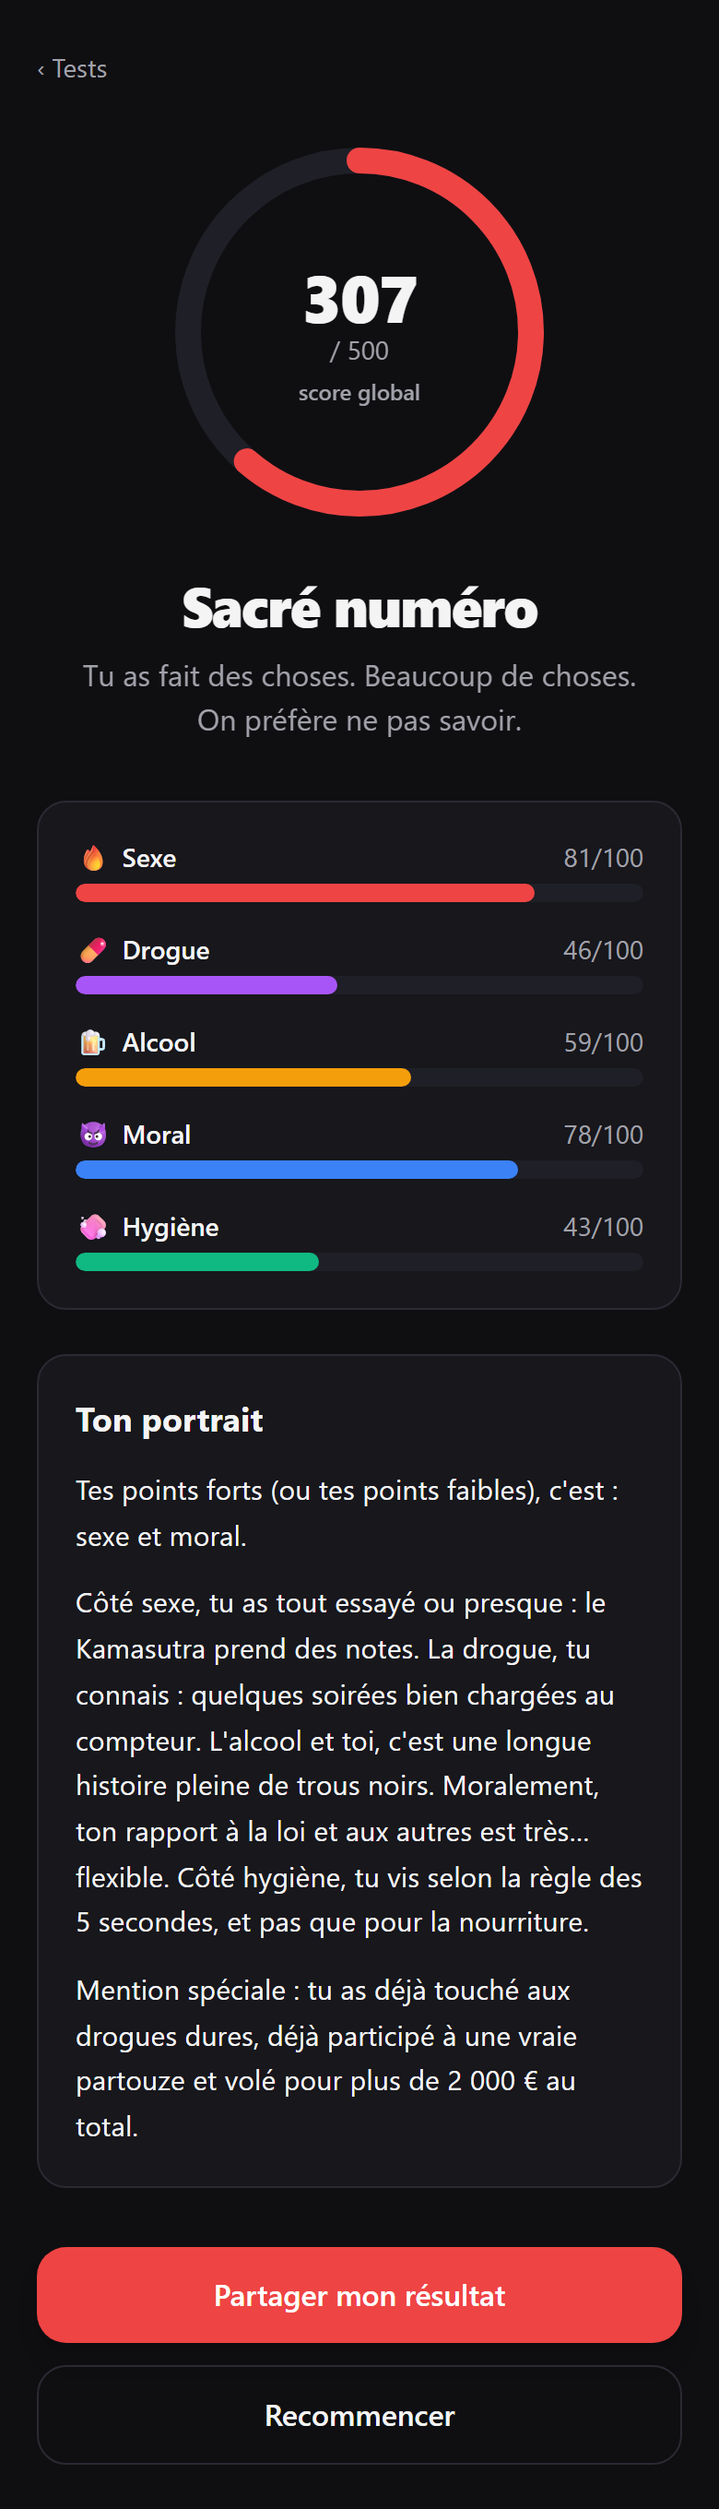
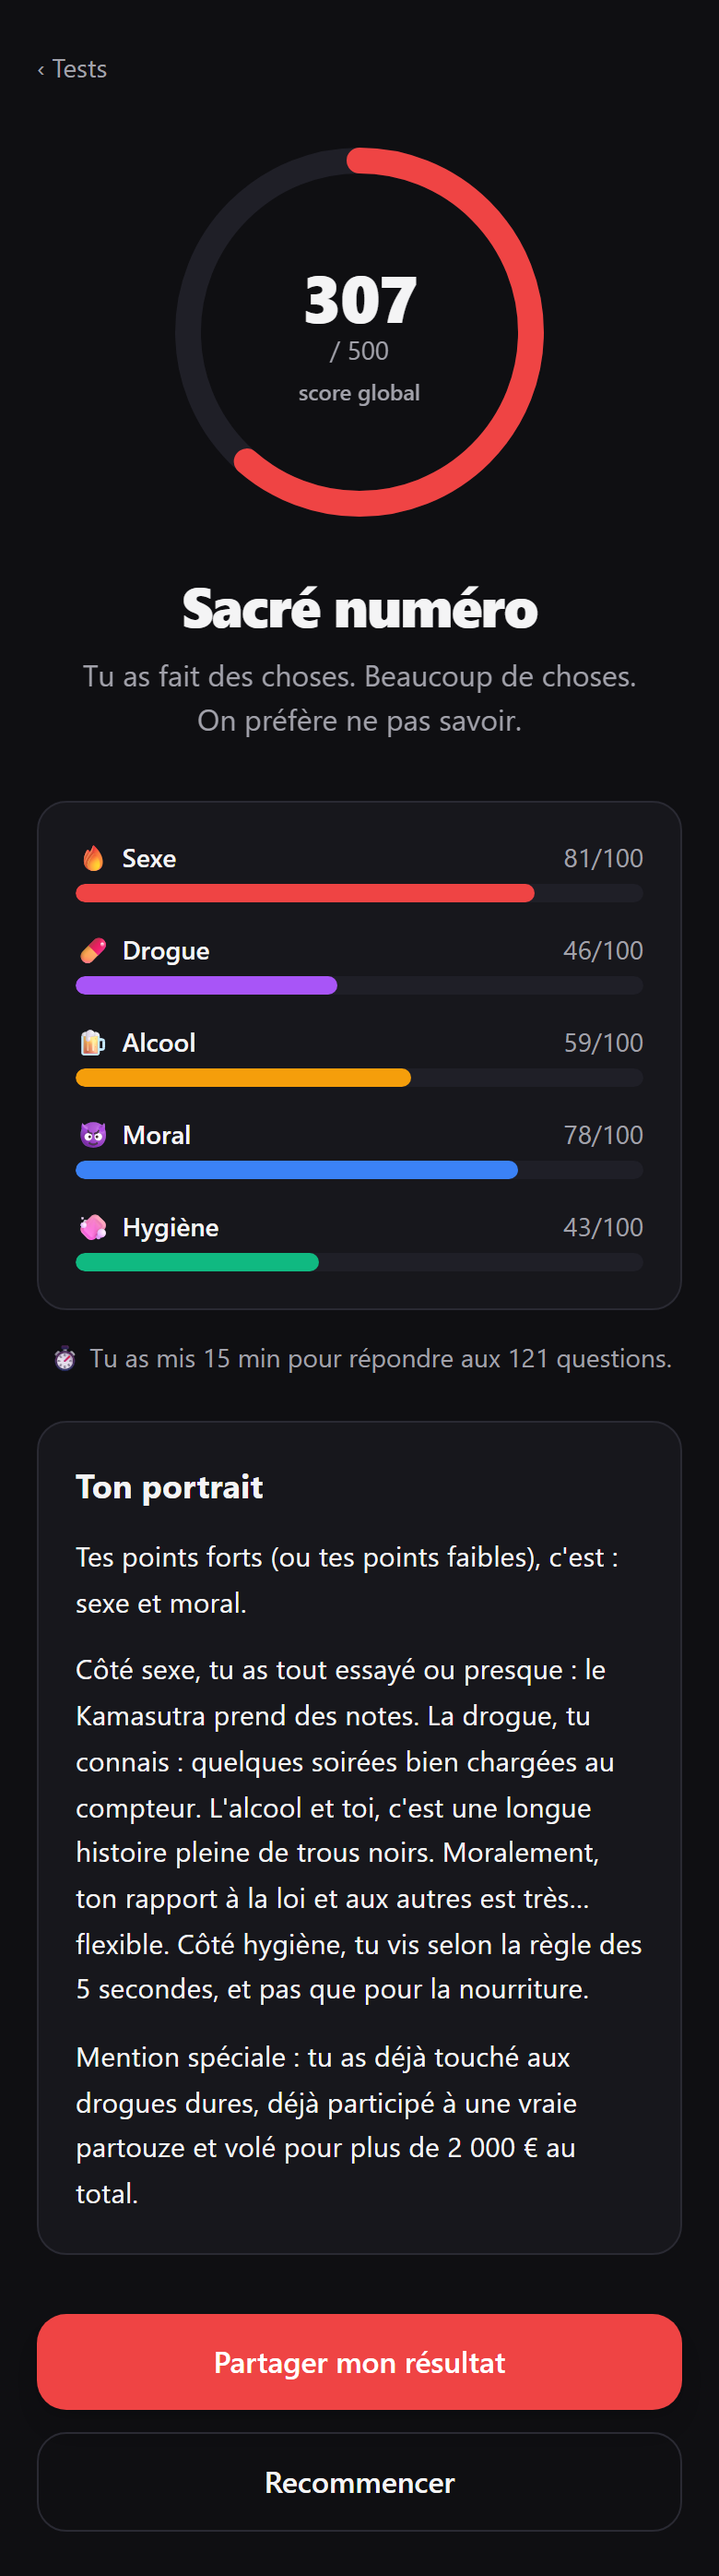
feat: show answering time on the global result
Active time is accumulated per category between actions (gaps capped at
2 minutes so pauses don't count) and stored with the answers.

diff --git a/src/state/QuizContext.tsx b/src/state/QuizContext.tsx
@@ -9,10 +9,15 @@ import {
   type ReactNode,
 } from "react";
 import type { AnswersByCategory, CategoryId } from "../data/types";
-import { loadState, saveState, resetState } from "../lib/storage";
+import { loadState, saveState, resetState, type ElapsedByCategory } from "../lib/storage";
+import { activeGap } from "../lib/timing";
 
 interface QuizContextValue {
   answers: AnswersByCategory;
+  /** active answering time per category, in milliseconds */
+  elapsedMs: ElapsedByCategory;
+  /** marks "the player is here now" (e.g. a quiz screen opened) without counting time */
+  markActivity: () => void;
   setAnswer: (category: CategoryId, questionId: string, answerIndex: number) => void;
   resetCategory: (category: CategoryId) => void;
   resetAll: () => void;
@@ -21,7 +26,11 @@ interface QuizContextValue {
 const QuizContext = createContext<QuizContextValue | null>(null);
 
 export function QuizProvider({ children }: { children: ReactNode }) {
-  const [answers, setAnswers] = useState<AnswersByCategory>(() => loadState().answers);
+  const [initialState] = useState(loadState);
+  const [answers, setAnswers] = useState<AnswersByCategory>(initialState.answers);
+  const [elapsedMs, setElapsedMs] = useState<ElapsedByCategory>(initialState.elapsedMs);
+  // Time of the last player action, kept in memory only: a reload starts fresh.
+  const lastActivity = useRef<number | null>(null);
 
   // Persist on every change (skip the very first render).
   const firstRender = useRef(true);
@@ -30,11 +39,19 @@ export function QuizProvider({ children }: { children: ReactNode }) {
       firstRender.current = false;
       return;
     }
-    saveState({ answers });
-  }, [answers]);
+    saveState({ answers, elapsedMs });
+  }, [answers, elapsedMs]);
+
+  const markActivity = useCallback(() => {
+    lastActivity.current = Date.now();
+  }, []);
 
   const setAnswer = useCallback(
     (category: CategoryId, questionId: string, answerIndex: number) => {
+      const now = Date.now();
+      const gap = activeGap(lastActivity.current, now);
+      lastActivity.current = now;
+      setElapsedMs((prev) => ({ ...prev, [category]: (prev[category] ?? 0) + gap }));
       setAnswers((prev) => ({
         ...prev,
         [category]: { ...(prev[category] ?? {}), [questionId]: answerIndex },
@@ -49,16 +66,22 @@ export function QuizProvider({ children }: { children: ReactNode }) {
       delete next[category];
       return next;
     });
+    setElapsedMs((prev) => {
+      const next = { ...prev };
+      delete next[category];
+      return next;
+    });
   }, []);
 
   const resetAll = useCallback(() => {
     resetState();
     setAnswers({});
+    setElapsedMs({});
   }, []);
 
   const value = useMemo<QuizContextValue>(
-    () => ({ answers, setAnswer, resetCategory, resetAll }),
-    [answers, setAnswer, resetCategory, resetAll],
+    () => ({ answers, elapsedMs, markActivity, setAnswer, resetCategory, resetAll }),
+    [answers, elapsedMs, markActivity, setAnswer, resetCategory, resetAll],
   );
 
   return <QuizContext.Provider value={value}>{children}</QuizContext.Provider>;

diff --git a/src/lib/storage.ts b/src/lib/storage.ts
@@ -1,9 +1,27 @@
-import type { AnswersByCategory } from "../data/types";
+import type { AnswersByCategory, CategoryId } from "../data/types";
 
 const KEY = "purity-test:v1";
 
+/** active answering time per category, in milliseconds */
+export type ElapsedByCategory = Partial<Record<CategoryId, number>>;
+
 export interface StoredState {
   answers: AnswersByCategory;
+  elapsedMs: ElapsedByCategory;
+}
+
+const EMPTY_STATE: StoredState = { answers: {}, elapsedMs: {} };
+
+/** Keeps only finite, non-negative durations (older saves have none). */
+function readElapsed(value: unknown): ElapsedByCategory {
+  if (!isPlainObject(value)) return {};
+  const elapsed: ElapsedByCategory = {};
+  for (const [id, ms] of Object.entries(value)) {
+    if (typeof ms === "number" && Number.isFinite(ms) && ms >= 0) {
+      elapsed[id as CategoryId] = ms;
+    }
+  }
+  return elapsed;
 }
 
 function isPlainObject(value: unknown): value is Record<string, unknown> {
@@ -14,14 +32,17 @@ function isPlainObject(value: unknown): value is Record<string, unknown> {
 export function loadState(): StoredState {
   try {
     const raw = localStorage.getItem(KEY);
-    if (!raw) return { answers: {} };
+    if (!raw) return EMPTY_STATE;
     const parsed: unknown = JSON.parse(raw);
     if (!isPlainObject(parsed) || !isPlainObject(parsed.answers)) {
-      return { answers: {} };
+      return EMPTY_STATE;
     }
-    return { answers: parsed.answers as AnswersByCategory };
+    return {
+      answers: parsed.answers as AnswersByCategory,
+      elapsedMs: readElapsed(parsed.elapsedMs),
+    };
   } catch {
-    return { answers: {} };
+    return EMPTY_STATE;
   }
 }
 

diff --git a/src/screens/GlobalResult.tsx b/src/screens/GlobalResult.tsx
@@ -10,9 +10,10 @@ import { ScoreRing } from "../components/ScoreRing";
 import { CategoryBar } from "../components/CategoryBar";
 import { SharePanel } from "../components/SharePanel";
 import { buildPortrait } from "../lib/portrait";
+import { formatDuration } from "../lib/timing";
 
 export function GlobalResult() {
-  const { answers, resetAll } = useQuiz();
+  const { answers, elapsedMs, resetAll } = useQuiz();
   const result = scoreAll(answers);
   const [sharing, setSharing] = useState(false);
 
@@ -25,6 +26,8 @@ export function GlobalResult() {
   const shareUrl = `${window.location.origin}${window.location.pathname}#/partage?d=${encodeResult(
     scoreById as ScoreMap,
   )}`;
+  const totalElapsedMs = Object.values(elapsedMs).reduce((sum, ms) => sum + (ms ?? 0), 0);
+  const answeredCount = result.perCategory.reduce((sum, r) => sum + r.answered, 0);
   const portrait = buildPortrait(scoreById as ScoreMap, answers);
   const shareText = `Mon Purity Test : ${result.total}/${result.maxTotal} — ${result.profile?.title}. Et toi ?`;
 
@@ -69,6 +72,12 @@ export function GlobalResult() {
           />
         ))}
       </div>
+
+      {totalElapsedMs > 0 && (
+        <p className="mt-4 text-center text-sm text-[var(--color-muted)]">
+          ⏱ Tu as mis {formatDuration(totalElapsedMs)} pour répondre aux {answeredCount} questions.
+        </p>
+      )}
 
       <section className="mt-6 space-y-3 rounded-2xl border border-[var(--color-line)] bg-[var(--color-surface)] p-5 text-[0.95rem] leading-relaxed">
         <h2 className="text-lg font-bold">Ton portrait</h2>

diff --git a/src/lib/timing.ts b/src/lib/timing.ts
@@ -1,0 +1,21 @@
+/**
+ * Longest gap counted between two actions: beyond that the player probably
+ * put the phone down, so a pause doesn't inflate the answering time.
+ */
+export const MAX_GAP_MS = 2 * 60 * 1000;
+
+/** Active time to add for an action happening at `now`, given the previous one. */
+export function activeGap(lastActivity: number | null, now: number): number {
+  if (lastActivity == null) return 0;
+  return Math.max(0, Math.min(now - lastActivity, MAX_GAP_MS));
+}
+
+/** Human-readable French duration ("moins d'une minute", "12 min", "1 h 05"). */
+export function formatDuration(ms: number): string {
+  const minutes = Math.round(ms / 60000);
+  if (minutes < 1) return "moins d'une minute";
+  if (minutes < 60) return `${minutes} min`;
+  const hours = Math.floor(minutes / 60);
+  const rest = minutes % 60;
+  return `${hours} h ${String(rest).padStart(2, "0")}`;
+}

diff --git a/src/lib/timing.test.ts b/src/lib/timing.test.ts
@@ -1,0 +1,23 @@
+import { describe, it, expect } from "vitest";
+import { MAX_GAP_MS, activeGap, formatDuration } from "./timing";
+
+describe("activeGap", () => {
+  it("counts nothing before the first action", () => {
+    expect(activeGap(null, 5000)).toBe(0);
+  });
+
+  it("counts the time since the previous action, capped for pauses", () => {
+    expect(activeGap(1000, 9000)).toBe(8000);
+    expect(activeGap(0, 60 * 60 * 1000)).toBe(MAX_GAP_MS);
+    expect(activeGap(9000, 1000)).toBe(0);
+  });
+});
+
+describe("formatDuration", () => {
+  it("formats minutes and hours", () => {
+    expect(formatDuration(20_000)).toBe("moins d'une minute");
+    expect(formatDuration(60_000)).toBe("1 min");
+    expect(formatDuration(12 * 60_000 + 20_000)).toBe("12 min");
+    expect(formatDuration(65 * 60_000)).toBe("1 h 05");
+  });
+});

diff --git a/src/screens/Quiz.tsx b/src/screens/Quiz.tsx
@@ -1,4 +1,4 @@
-import { useState } from "react";
+import { useEffect, useState } from "react";
 import { Navigate, useNavigate, useParams, Link } from "react-router-dom";
 import { useQuiz } from "../state/QuizContext";
 import { getCategory } from "../data/categories";
@@ -15,7 +15,12 @@ export function Quiz() {
   const { categoryId } = useParams();
   const category = getCategory(categoryId);
   const navigate = useNavigate();
-  const { answers, setAnswer } = useQuiz();
+  const { answers, setAnswer, markActivity } = useQuiz();
+
+  // Answering time starts counting when the quiz screen opens.
+  useEffect(() => {
+    markActivity();
+  }, [categoryId, markActivity]);
 
   // Contradictory answers (see `answerLimits`) count as unanswered.
   const catAnswers = category ? sanitizeAnswers(category, answers[category.id]) : {};

diff --git a/SUIVI.md b/SUIVI.md
@@ -5,8 +5,8 @@
 (repo public `Floran-grmxx/purity-test`, déploiement auto à chaque push sur `main`).
 **Nouveau (pushé le 2026-11-22)** : réponses contradictoires masquées (`answerLimits`),
 comptages chiffrés, questions de fréquence au passé, **portrait** texte sous les résultats
-(aussi sur la page partagée, version scores seuls), **partage par QR code**. **69/69 tests
-verts**, build propre. Questions à un seul choix possible répondues automatiquement.
+(aussi sur la page partagée, version scores seuls), **partage par QR code**. **72/72 tests
+verts**, build propre. Questions à un seul choix répondues automatiquement, temps de réponse affiché.
 **Prochaine priorité** : vérif sur téléphone (scan du QR), choix du nom.
 
 ## ✅ Fait
@@ -40,6 +40,7 @@ verts**, build propre. Questions à un seul choix possible répondues automatiqu
 
 - [x] Réponses contradictoires masquées + comptages chiffrés + fréquences au passé
 - [x] Portrait texte (résultat perso + page partagée) et panneau de partage QR / lien
+- [x] Temps de réponse affiché sur le résultat global (temps actif, pauses > 2 min plafonnées)
 - [x] Questions réduites à un seul choix : répondues automatiquement et sautées (`isAutoAnswered`)
 - [x] Lien « About » du repo corrigé (pointait vers l'ancien compte gourmaxx.github.io)
 
